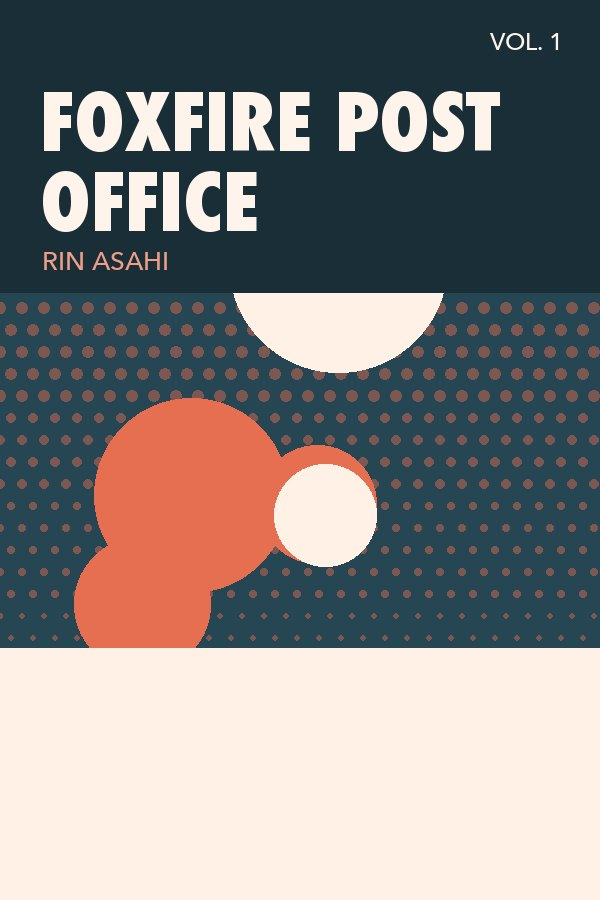
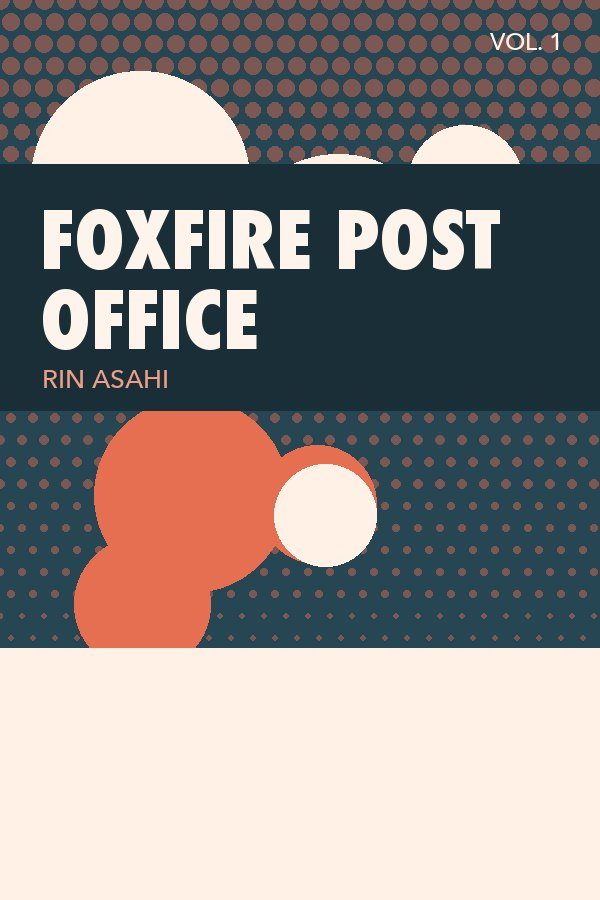
Covers: title band in the upper third, clear of unread badges and the library title overlay (1.2)

diff --git a/sources/demo/main.js b/sources/demo/main.js
@@ -1,6 +1,6 @@
 /**
  * @name Demo Source
- * @version 1.1
+ * @version 1.2
  * @lang en
  *
  * Invented series with generated artwork, for store screenshots and demos. Nothing here is

diff --git a/tools/main.template.js b/tools/main.template.js
@@ -1,6 +1,6 @@
 /**
  * @name Demo Source
- * @version 1.1
+ * @version 1.2
  * @lang en
  *
  * Invented series with generated artwork, for store screenshots and demos. Nothing here is

diff --git a/tools/generate.py b/tools/generate.py
@@ -151,12 +151,12 @@ def cover(entry, index):
             break
         size -= 4
     lines = wrap(title, title_font, W - 80, d)
-    # The title band sits at the top: the app's Library grid overlays its own title along the
-    # bottom of each cover, so a bottom band would collide with it.
+    # The title band sits in the upper third: the app draws unread badges in the top corners
+    # and its own title along the bottom of Library covers, so both edges stay clear.
     line_h = int(size * 1.03)
     block_h = line_h * len(lines) + 70
-    top = 72
-    d.rectangle([0, 0, W, top + block_h - 10], fill=band)
+    top = 190
+    d.rectangle([0, top - 26, W, top + block_h - 10], fill=band)
     for i, line in enumerate(lines):
         d.text((40, top + i * line_h), line, font=title_font, fill=ink)
     d.text((42, top + len(lines) * line_h + 12), entry["author"].upper(),
